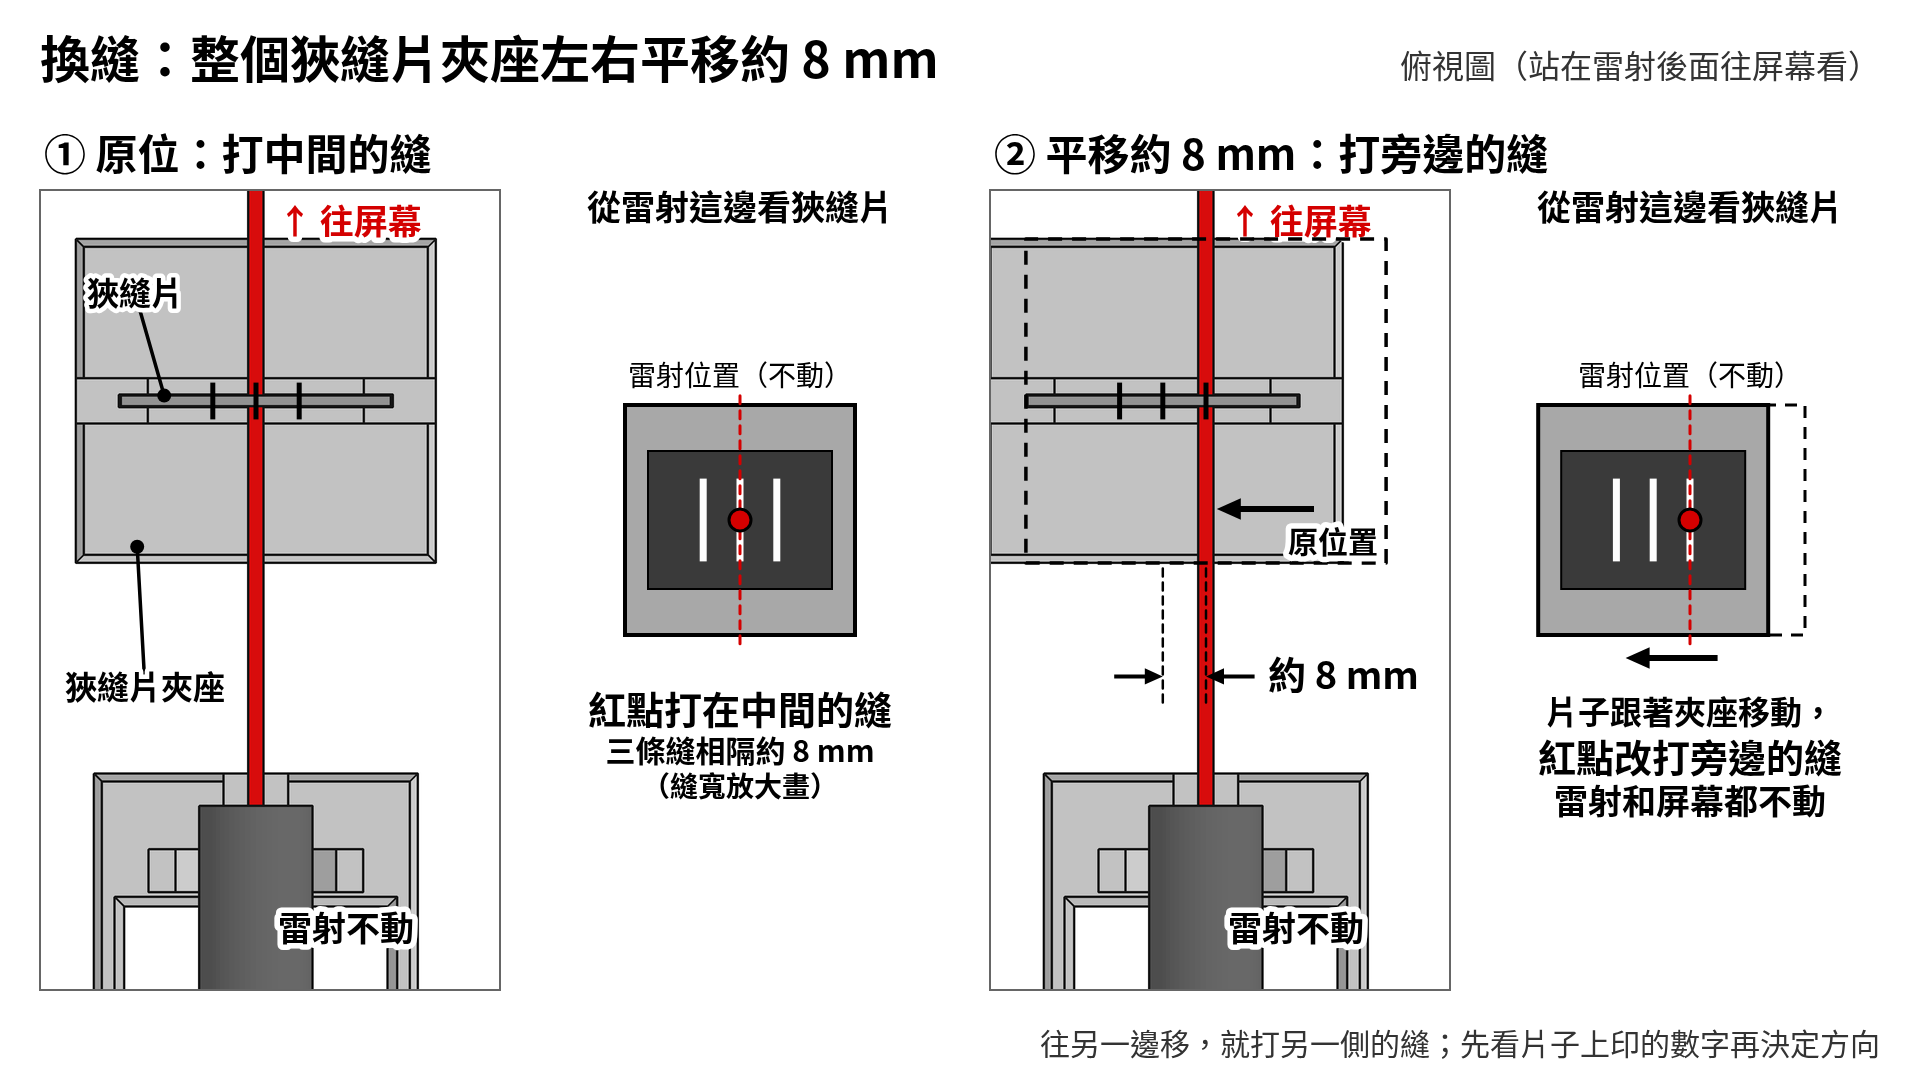
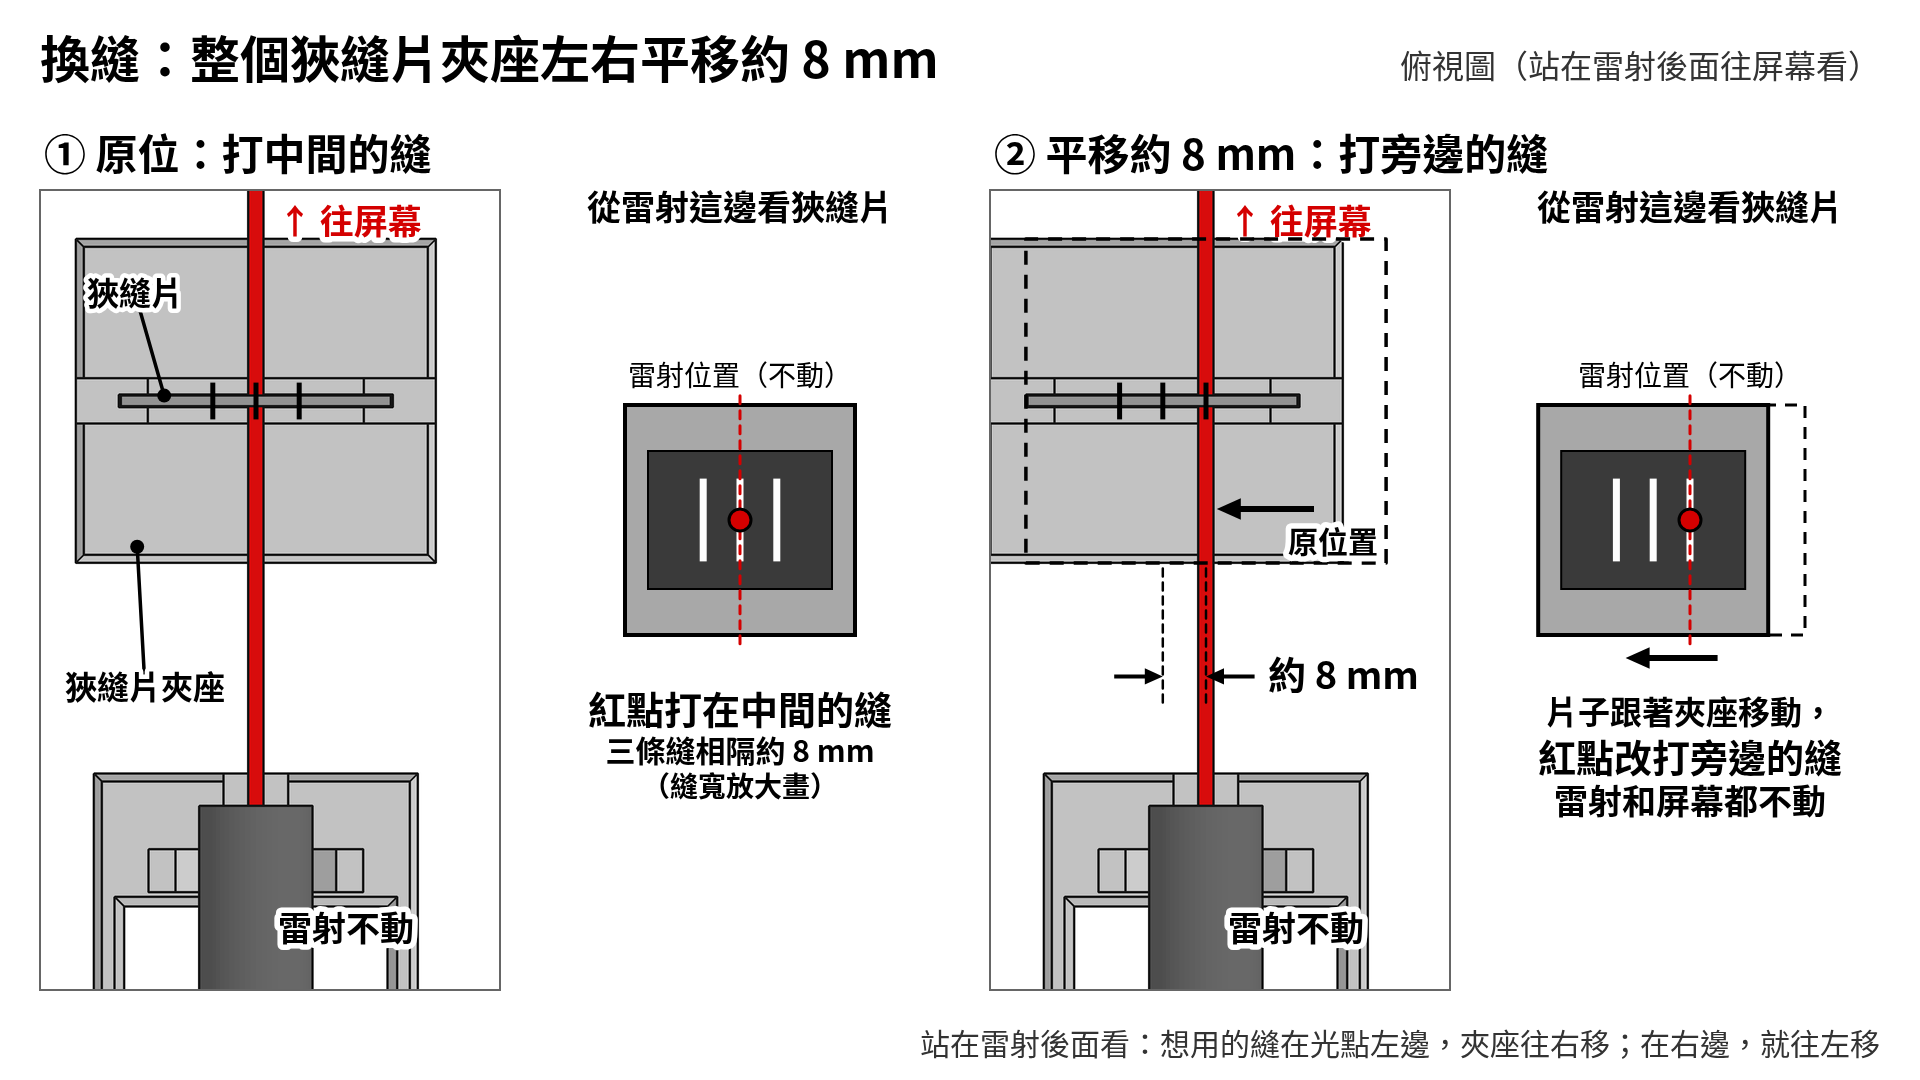
換縫圖小字改成平移方向規則

Changed region(s): [[0.4688, 0.9472, 1.0, 0.9778]]

diff --git a/slides.html b/slides.html
@@ -64,7 +64,7 @@
 </section>
 
 <section class="slide imgslide">
-  <img src="img/slit-shift.png" alt="換縫：整個狹縫片夾座左右平移約 8 mm">
+  <img src="img/slit-shift.png?v=2" alt="換縫：整個狹縫片夾座左右平移約 8 mm">
 </section>
 
 <section class="slide">
